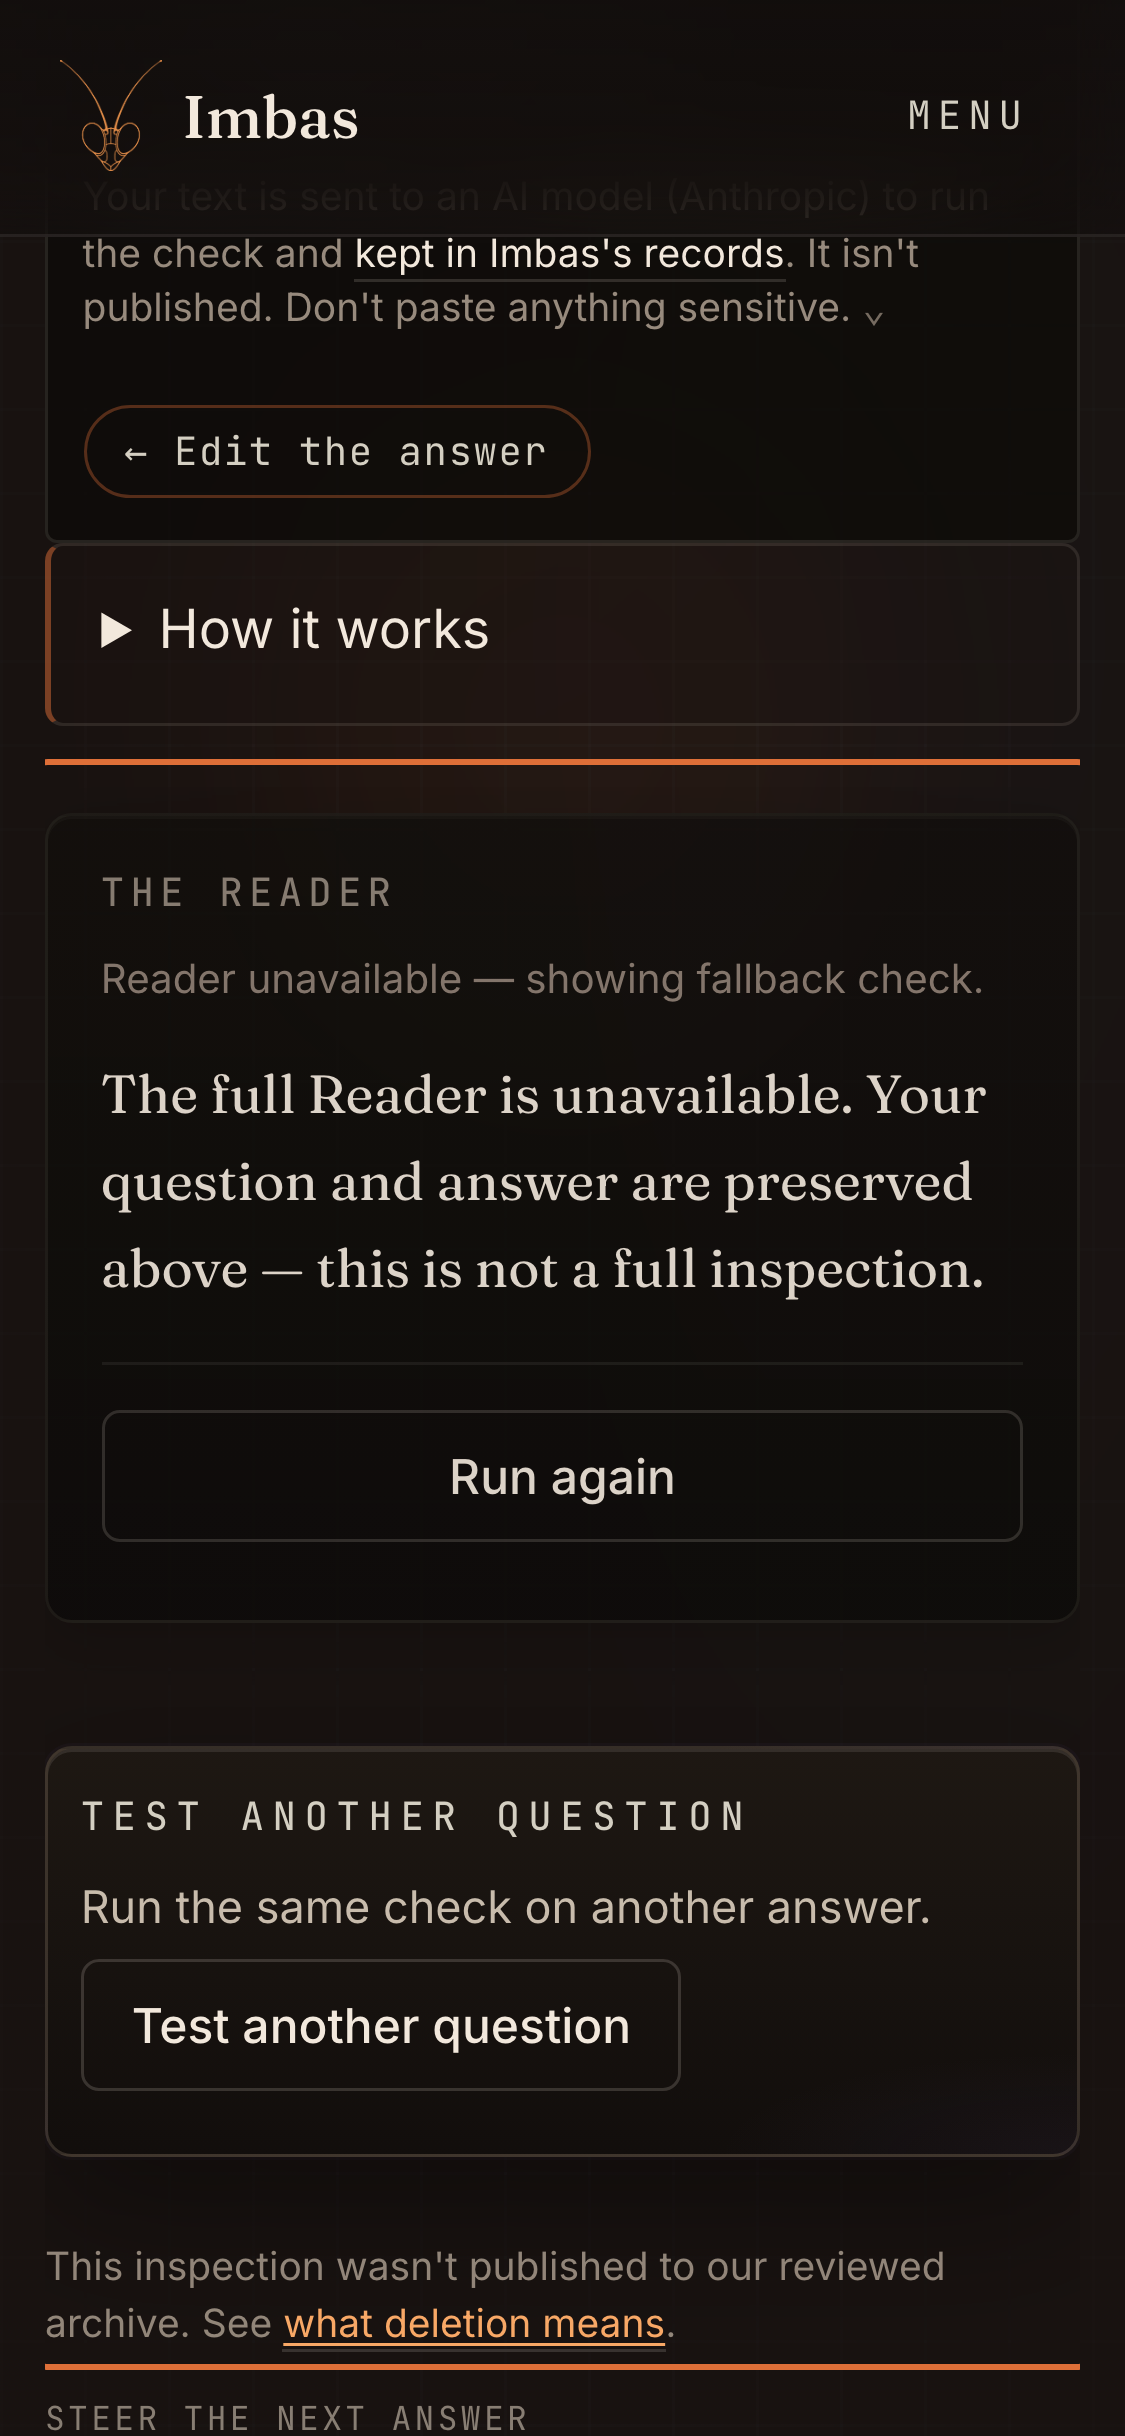
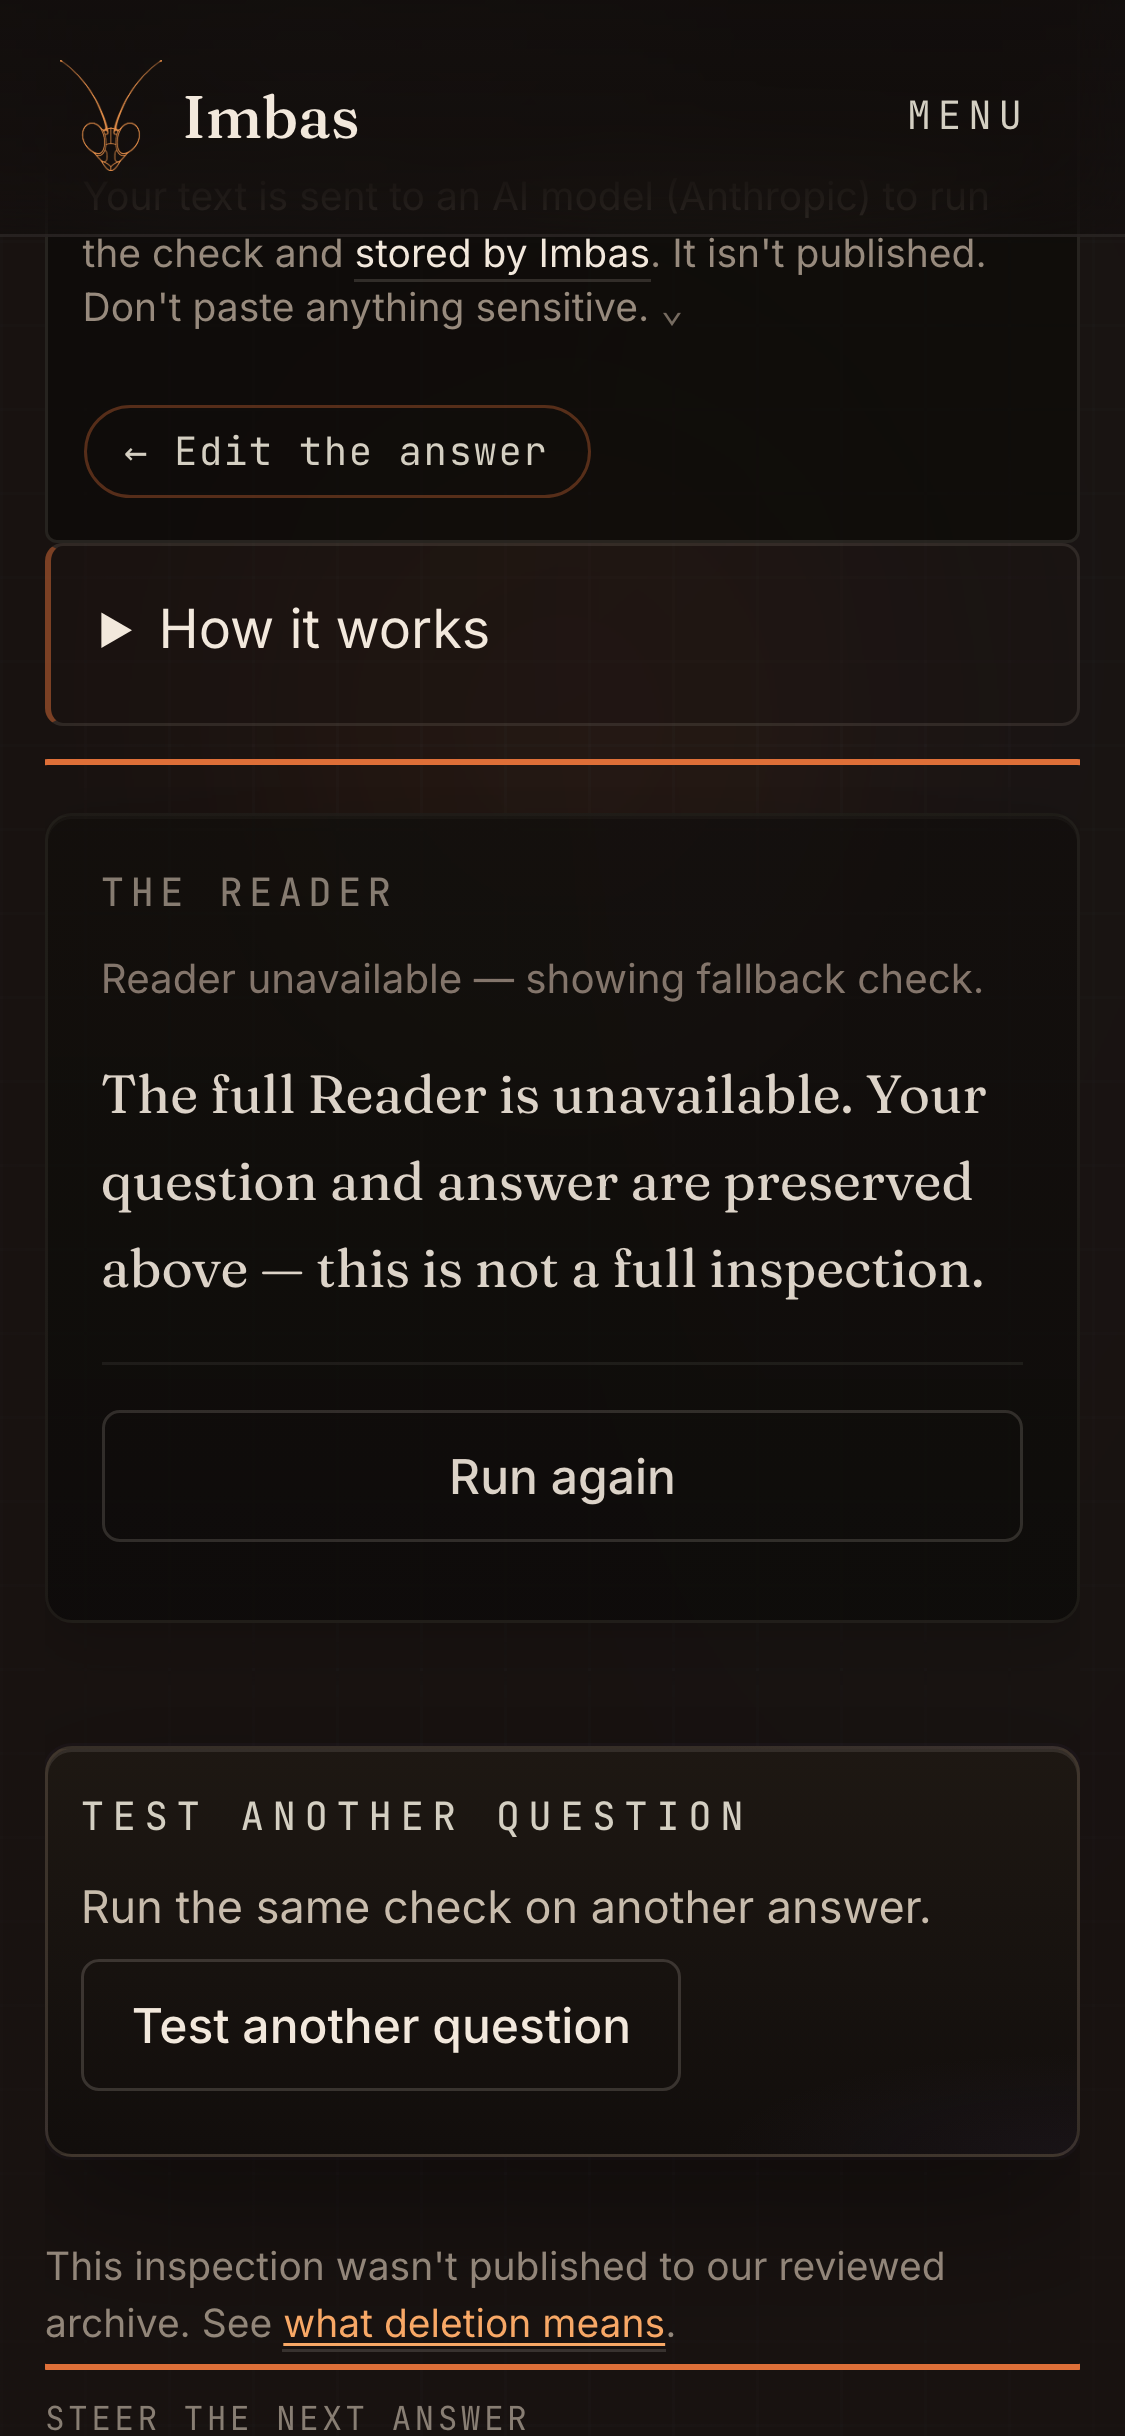
Accept the 8 frames the privacy wording moved, each with a demonstrated cause
first-load, read-capacity, read-error and read-in-flight, at both widths:
the four states whose frame shows the privacy line. Accepted one scenario
at a time with --update; each committed image equals the bytes two runs
observed (2026-11-04T03-53-57Z, full board, and a targeted rerun),
identical across both. Cause: with only workbench-app.jsx and
workbench.bundle.js reverted to 8912967, all 8 frames equal the previous
baselines byte for byte, and 8912967's tree is the tree the 90/90 board
passed on. The snapshot diff is the link text alone.

Changed region(s): [[0.28, 0.0936, 0.8711, 0.156], [0.0933, 0.1248, 0.1556, 0.156], [0.2178, 0.1248, 0.2489, 0.156]]

diff --git a/docs/qa/visual-acceptance-harness/manifest.md b/docs/qa/visual-acceptance-harness/manifest.md
@@ -479,11 +479,11 @@ A board that lists only what it covers reads as complete. These are the result s
 
 | field | value |
 | --- | --- |
[1 lines of base64/hex data omitted]
-| bytes | 417660 |
[1 lines of base64/hex data omitted]
+| bytes | 415350 |
 | snapshot | `first-load--desktop.snapshot.txt` |
[1 lines of base64/hex data omitted]
-| snapshot bytes | 2290 |
[1 lines of base64/hex data omitted]
+| snapshot bytes | 2282 |
 | viewport | 1440x900@2x (desktop) |
 | url | `/reader.html`, query `(none)` |
 | framed on | `.wb-reader-v2__fields` at scroll offset 87 |
@@ -495,11 +495,11 @@ A board that lists only what it covers reads as complete. These are the result s
 
 | field | value |
 | --- | --- |
[1 lines of base64/hex data omitted]
-| bytes | 391684 |
[1 lines of base64/hex data omitted]
+| bytes | 390486 |
 | snapshot | `first-load--mobile.snapshot.txt` |
[1 lines of base64/hex data omitted]
-| snapshot bytes | 2022 |
[1 lines of base64/hex data omitted]
+| snapshot bytes | 2014 |
 | viewport | 375x812@3x (mobile) |
 | url | `/reader.html`, query `(none)` |
 | framed on | `.wb-reader-v2__fields` at scroll offset 116 |
@@ -1023,11 +1023,11 @@ A board that lists only what it covers reads as complete. These are the result s
 
 | field | value |
 | --- | --- |
[1 lines of base64/hex data omitted]
-| bytes | 425449 |
[1 lines of base64/hex data omitted]
+| bytes | 423113 |
 | snapshot | `read-capacity--desktop.snapshot.txt` |
[1 lines of base64/hex data omitted]
-| snapshot bytes | 2607 |
[1 lines of base64/hex data omitted]
+| snapshot bytes | 2599 |
 | viewport | 1440x900@2x (desktop) |
 | url | `/reader.html`, query `(none)` |
 | framed on | `.wb-reader-result` at scroll offset 1015 |
@@ -1039,11 +1039,11 @@ A board that lists only what it covers reads as complete. These are the result s
 
 | field | value |
 | --- | --- |
[1 lines of base64/hex data omitted]
-| bytes | 429517 |
[1 lines of base64/hex data omitted]
+| bytes | 427289 |
 | snapshot | `read-capacity--mobile.snapshot.txt` |
[1 lines of base64/hex data omitted]
-| snapshot bytes | 2232 |
[1 lines of base64/hex data omitted]
+| snapshot bytes | 2224 |
 | viewport | 375x812@3x (mobile) |
 | url | `/reader.html`, query `(none)` |
 | framed on | `.wb-reader-result` at scroll offset 1148 |
@@ -1055,11 +1055,11 @@ A board that lists only what it covers reads as complete. These are the result s
 
 | field | value |
 | --- | --- |
[1 lines of base64/hex data omitted]
-| bytes | 403014 |
[1 lines of base64/hex data omitted]
+| bytes | 400161 |
 | snapshot | `read-error--desktop.snapshot.txt` |
[1 lines of base64/hex data omitted]
-| snapshot bytes | 2604 |
[1 lines of base64/hex data omitted]
+| snapshot bytes | 2596 |
 | viewport | 1440x900@2x (desktop) |
 | url | `/reader.html`, query `(none)` |
 | framed on | `.wb-reader-result` at scroll offset 1005 |
@@ -1071,11 +1071,11 @@ A board that lists only what it covers reads as complete. These are the result s
 
 | field | value |
 | --- | --- |
[1 lines of base64/hex data omitted]
-| bytes | 392288 |
[1 lines of base64/hex data omitted]
+| bytes | 390513 |
 | snapshot | `read-error--mobile.snapshot.txt` |
[1 lines of base64/hex data omitted]
-| snapshot bytes | 2149 |
[1 lines of base64/hex data omitted]
+| snapshot bytes | 2141 |
 | viewport | 375x812@3x (mobile) |
 | url | `/reader.html`, query `(none)` |
 | framed on | `.wb-reader-result` at scroll offset 1119 |
@@ -1087,11 +1087,11 @@ A board that lists only what it covers reads as complete. These are the result s
 
 | field | value |
 | --- | --- |
[1 lines of base64/hex data omitted]
-| bytes | 299113 |
[1 lines of base64/hex data omitted]
+| bytes | 296564 |
 | snapshot | `read-in-flight--desktop.snapshot.txt` |
[1 lines of base64/hex data omitted]
-| snapshot bytes | 2410 |
[1 lines of base64/hex data omitted]
+| snapshot bytes | 2402 |
 | viewport | 1440x900@2x (desktop) |
 | url | `/reader.html`, query `(none)` |
 | framed on | `.wb-reader-v2__action-row` at scroll offset 718 |
@@ -1103,11 +1103,11 @@ A board that lists only what it covers reads as complete. These are the result s
 
 | field | value |
 | --- | --- |
[1 lines of base64/hex data omitted]
-| bytes | 280003 |
[1 lines of base64/hex data omitted]
+| bytes | 278267 |
 | snapshot | `read-in-flight--mobile.snapshot.txt` |
[1 lines of base64/hex data omitted]
-| snapshot bytes | 2105 |
[1 lines of base64/hex data omitted]
+| snapshot bytes | 2097 |
 | viewport | 375x812@3x (mobile) |
 | url | `/reader.html`, query `(none)` |
 | framed on | `.wb-reader-v2__action-row` at scroll offset 818 |
